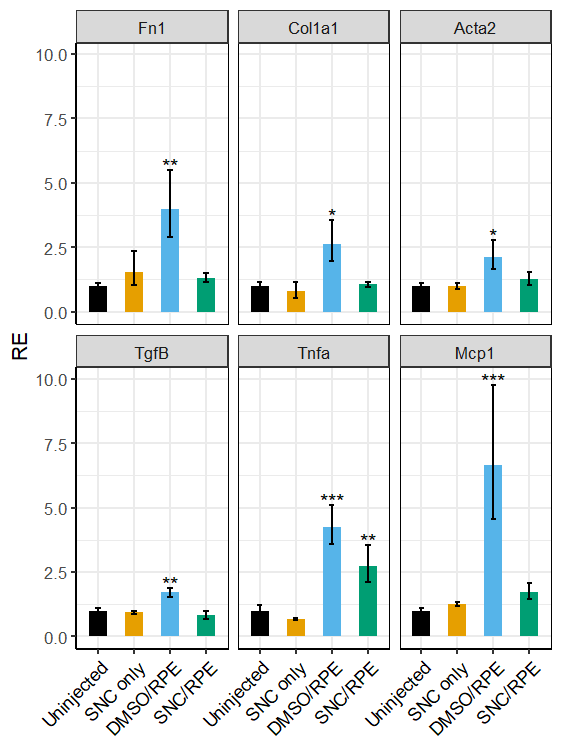
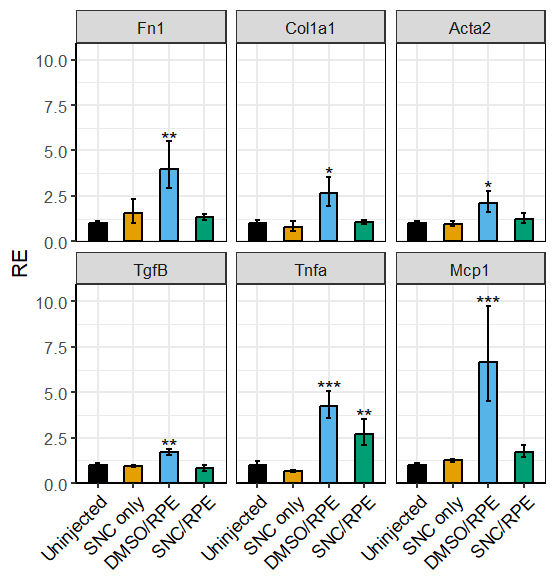
2.1.1

Changed region(s): [[0.0612, 0.0, 1.0, 0.9863], [0.0, 0.4315, 0.0612, 0.4932], [0.4586, 0.3699, 0.4892, 0.4007]]

diff --git a/README.md b/README.md
@@ -375,11 +375,12 @@ p + theme(
   panel.border = element_rect(color = "black", linewidth = 0.5)) +
   theme(axis.text.x = element_text(size = 14, color = "black", angle = 45, hjust = 1)) +
   theme(legend.position = "none") +
-  xlab(NULL)
+  xlab(NULL) +
+  scale_y_continuous(expand = expansion(mult = c(0, 0.1)))
 
 ```
 <p align="center">
-<img src="inst/Rplot03.png" width="100%">
+<img src="inst/Rplot03.png" width="90%">
 </p>
 
 
